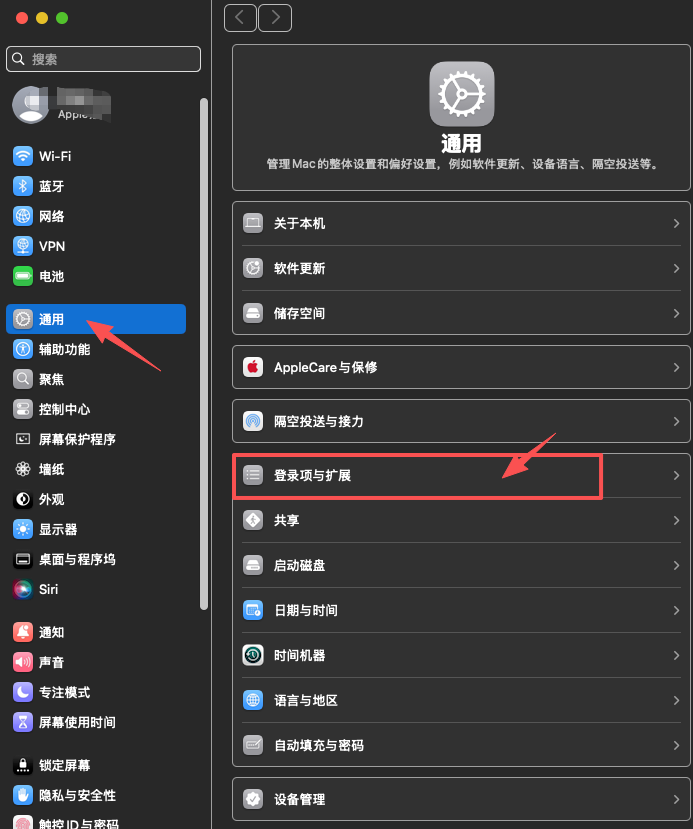
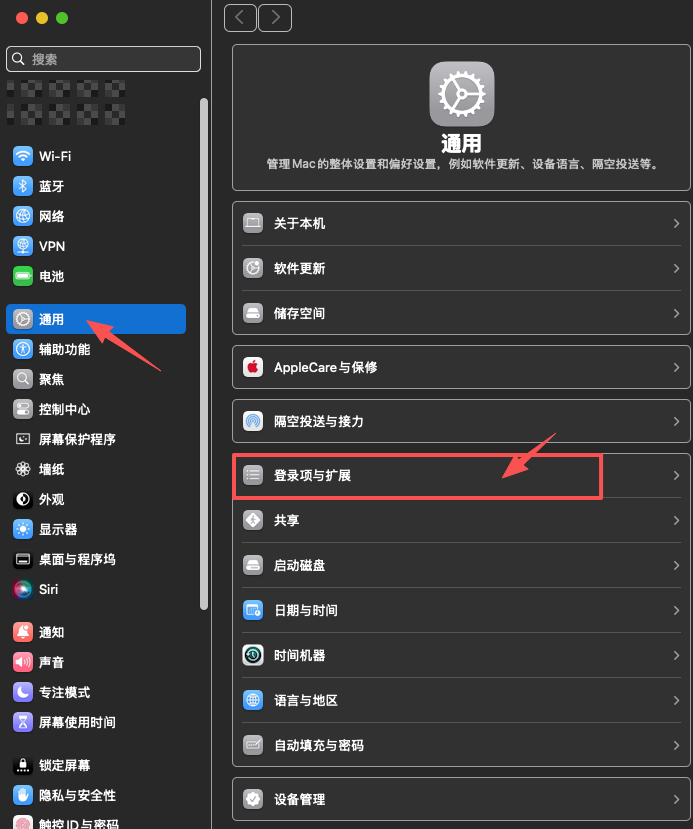
Publish installation screenshots with private details masked

Changed region(s): [[0.0, 0.0905, 0.1818, 0.1508]]

diff --git a/docs/install.md b/docs/install.md
@@ -53,6 +53,8 @@
 
 **以 IPFLY 为例：**登录 [IPFLY 控制台](https://console.ipfly.net/)，在自己的 IP 管理页面找到对应的 SOCKS5 配置，再对照授权页面中的字段逐项填写。其他服务商按其提供的配置填写即可。
 
+![代理服务商控制台的字段示例](images/05-proxy-provider.png)
+
 **步骤 3：核对并进入客户端**  
 检查授权信息和代理配置，确认无误后点击**「校验并进入客户端」**。下图为填写位置示意，实际内容请填写你自己的信息。
 
@@ -68,15 +70,21 @@
 
 **IP 类型和评分仅供参考，不能代替代理验收。**
 
+![启动运行环境的按钮和状态](images/07-runtime.png)
+
 ## 4. 通过工具打开 Claude
 
 使用桌面端，点击**「Claude 客户端」**；使用网页端，点击**「Google Chrome」**或**「Microsoft Edge」**。在工具打开的窗口中登录自己的 Claude 账号即可。
+
+![打开 Claude 桌面端、网页端和 Claude Code 的入口](images/08-launchers.png)
 
 **以后也从小工具打开 Claude。**不要另外从 Dock、Spotlight 或普通浏览器进入 Claude。
 
 ## 5. 使用 Claude Code（按需）
 
 需要使用 Claude Code 时，先点击**「修改目录」**，选择自己的项目文件夹。确认「挂载目录」正确后，再点击上方**「Claude Code」**。
+
+![为 Claude Code 选择项目目录的位置](images/09-claude-code.png)
 
 ## 6. 遇到问题，怎么向 Codex 求助
 
